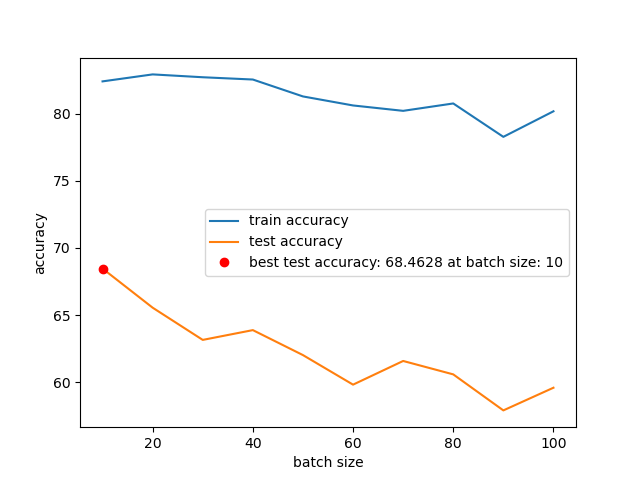
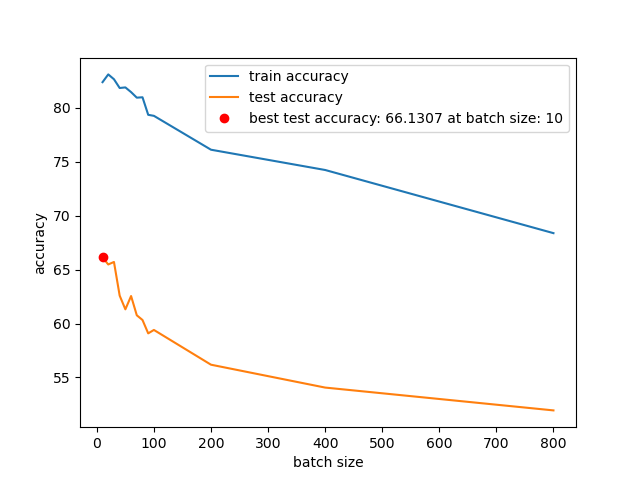
updated nn test

diff --git a/a1/neural_network/nn.py b/a1/neural_network/nn.py
@@ -158,7 +158,7 @@ def train_model(hdim=64, lr=1e-4, epochs=10, batch_size=10, dropout=0.1):
     income_classification_list = list(itertools.chain(*income_classification_list))
     #print(income_classification_list)
     #print(classification_report(y_test[:-6], income_classification_list))
-    final_test_acc = binary_acc(torch.FloatTensor(income_classification_list), torch.FloatTensor(y_test[:-6])).item()/len(y_test[:-6])
+    final_test_acc = binary_acc(torch.FloatTensor(income_classification_list), torch.FloatTensor(y_test[:-(len(y_test) % batch_size)])).item()/len(y_test[:-(len(y_test) % batch_size)])
     print("Final train accuracy: ", final_train_acc)
     print("Final test accuracy: ", final_test_acc)
     return final_train_acc, final_test_acc
@@ -168,7 +168,7 @@ def train_model(hdim=64, lr=1e-4, epochs=10, batch_size=10, dropout=0.1):
 '''function to test and plot various batch sizes, with default parameters otherwise'''
 
 def batch_size_test():
-    batch_size_list = [10, 20, 30, 40, 50, 60, 70, 80, 90, 100]
+    batch_size_list = [2,3,4,5,7,10, 20, 30, 40, 50, 60, 70, 80, 90, 100, 200, 400, 800]
     train_acc_list = []
     test_acc_list = []
     best_test_acc = 0
